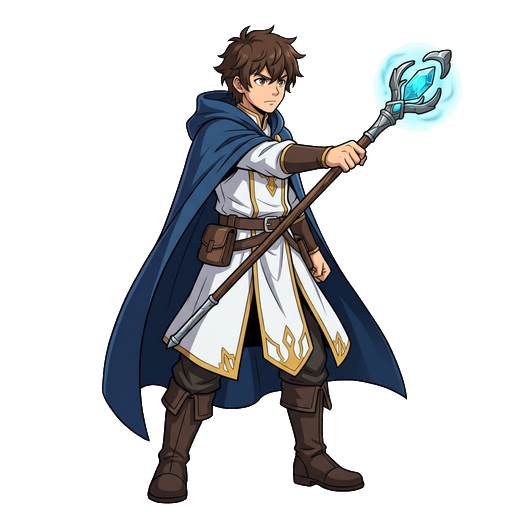
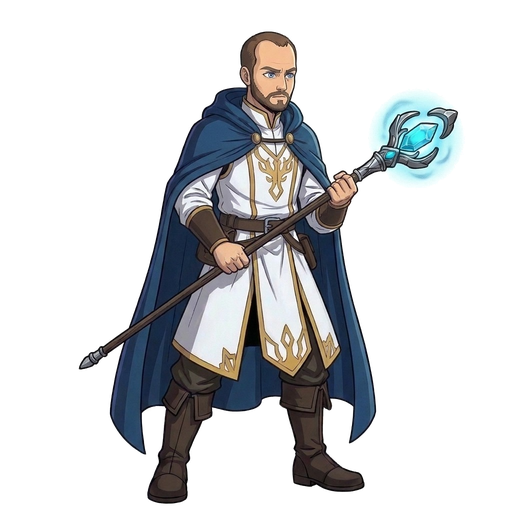
feat(arena): update cleric idle sprite and wire cleric hit recoil pose

Changed region(s): [[0.1562, 0.0312, 0.9062, 0.9062]]

diff --git a/VSCode/test/robot_mage_assets_and_arena_test.dart b/VSCode/test/robot_mage_assets_and_arena_test.dart
@@ -119,6 +119,7 @@ void main() {
 
       const expectedSprites = [
         'assets/images/player/cleric_idle.png',
+        'assets/images/player/cleric_hit.png',
         'assets/images/enemies/guardian_robot_idle.png',
         'assets/images/enemies/guardian_robot_hit.png',
         'assets/images/enemies/robot_archmage_idle.png',
@@ -260,7 +261,7 @@ void main() {
       expect(find.byKey(const ValueKey('user_mana_bar')), findsOneWidget);
       expect(find.text('GUARDIAN ROBOT'), findsOneWidget);
 
-      // PC wins round 1 -> guardian_robot_idle.png stays active (no attack sprite swap)
+      // PC wins round 1 -> guardian_robot_idle.png stays active; Cleric stays on idle until 550ms impact, then swaps to cleric_hit.png for ~450ms
       await pumpArena(
         roundId: 1,
         winner: RoundWinner.computer,
@@ -273,15 +274,33 @@ void main() {
         find.byKey(const ValueKey('assets/images/enemies/guardian_robot_idle.png')),
         findsOneWidget,
       );
+      expect(
+        find.byKey(const ValueKey('assets/images/player/cleric_idle.png')),
+        findsOneWidget,
+      );
 
-      await tester.pump(const Duration(milliseconds: 350)); // 470ms total (>450ms)
+      await tester.pump(const Duration(milliseconds: 350)); // 470ms total (<550ms impact)
       expect(
         find.byKey(const ValueKey('assets/images/enemies/guardian_robot_idle.png')),
         findsOneWidget,
       );
+      expect(
+        find.byKey(const ValueKey('assets/images/player/cleric_idle.png')),
+        findsOneWidget,
+      );
 
-      // Finish remaining VFX duration
-      await tester.pump(const Duration(milliseconds: 350));
+      await tester.pump(const Duration(milliseconds: 90)); // 560ms total -> impact fired!
+      expect(
+        find.byKey(const ValueKey('assets/images/player/cleric_hit.png')),
+        findsOneWidget,
+      );
+
+      // Finish remaining hit animation (>450ms after impact) -> reverts back to cleric_idle.png
+      await tester.pump(const Duration(milliseconds: 460));
+      expect(
+        find.byKey(const ValueKey('assets/images/player/cleric_idle.png')),
+        findsOneWidget,
+      );
 
       // Player deals damage round 2 -> idle during launch/clash, swaps to guardian_robot_hit.png at 550ms impact for ~450ms
       await pumpArena(
@@ -296,10 +315,18 @@ void main() {
         find.byKey(const ValueKey('assets/images/enemies/guardian_robot_idle.png')),
         findsOneWidget,
       );
+      expect(
+        find.byKey(const ValueKey('assets/images/player/cleric_idle.png')),
+        findsOneWidget,
+      );
 
       await tester.pump(const Duration(milliseconds: 360)); // 560ms total -> impact fired!
       expect(
         find.byKey(const ValueKey('assets/images/enemies/guardian_robot_hit.png')),
+        findsOneWidget,
+      );
+      expect(
+        find.byKey(const ValueKey('assets/images/player/cleric_idle.png')),
         findsOneWidget,
       );
 
@@ -310,6 +337,150 @@ void main() {
         findsOneWidget,
       );
     });
+
+    testWidgets(
+      'Player Cleric renders cleric_idle.png by default with gaplessPlayback & bottomCenter grounding, swaps to cleric_hit.png synchronized with HP drop & damage indicator, and reverts cleanly',
+      (WidgetTester tester) async {
+        final localization = LocalizationService();
+        await localization.load();
+
+        Future<void> pumpClericArena({
+          required int roundId,
+          RoundWinner? winner,
+          HandMove? userMove,
+          HandMove? computerMove,
+          int userHp = 50,
+          bool elementalMode = true,
+          bool compactHeight = false,
+          DualSpellMatchupResult? dualSpellResult,
+        }) {
+          return tester.pumpWidget(
+            MaterialApp(
+              theme: ThemeData.dark(),
+              home: Scaffold(
+                body: SizedBox(
+                  width: 390,
+                  child: VersusArena(
+                    userMove: userMove,
+                    computerMove: computerMove,
+                    dualSpellResult: dualSpellResult,
+                    winner: winner,
+                    localization: localization,
+                    animationsEnabled: true,
+                    roundId: roundId,
+                    userHp: userHp,
+                    playerMaxHp: 50,
+                    userDamageAmount: 1,
+                    elementalMode: elementalMode,
+                    compactHeight: compactHeight,
+                  ),
+                ),
+              ),
+            ),
+          );
+        }
+
+        final idleFinder = find.byKey(
+          const ValueKey('assets/images/player/cleric_idle.png'),
+        );
+        final hitFinder = find.byKey(
+          const ValueKey('assets/images/player/cleric_hit.png'),
+        );
+        final spriteBoxFinder = find.byKey(
+          const ValueKey('versus_player_sprite'),
+        );
+        final userHpBarFinder = find.byKey(const ValueKey('user_hp_bar'));
+
+        // 1. Default idle state & floor grounding check (standard + compactHeight)
+        for (final compact in [false, true]) {
+          await pumpClericArena(roundId: 0, compactHeight: compact);
+          await tester.pump();
+
+          expect(idleFinder, findsOneWidget);
+          expect(hitFinder, findsNothing);
+
+          final idleImage = tester.widget<Image>(idleFinder);
+          expect(idleImage.gaplessPlayback, isTrue);
+          expect(idleImage.alignment, Alignment.bottomCenter);
+
+          final spriteRect = tester.getRect(spriteBoxFinder);
+          final hpRect = tester.getRect(userHpBarFinder);
+          expect(
+            spriteRect.bottom,
+            lessThanOrEqualTo(hpRect.top + 0.5),
+            reason: 'Cleric sprite should stay grounded above HP bar (compact=$compact)',
+          );
+        }
+
+        // 2. Elemental mode impact: HP deduction, damage indicator, and cleric_hit.png fire together at 550ms
+        await pumpClericArena(roundId: 0);
+        await tester.pump();
+        final initialSpriteRect = tester.getRect(spriteBoxFinder);
+
+        await pumpClericArena(
+          roundId: 1,
+          winner: RoundWinner.computer,
+          userMove: HandMove.fire,
+          computerMove: HandMove.water,
+          userHp: 49,
+        );
+        await tester.pump();
+
+        // Before Phase 3 impact (300ms clash): still idle, HP bar still at 50 / 50
+        await tester.pump(const Duration(milliseconds: 300));
+        expect(idleFinder, findsOneWidget);
+        expect(hitFinder, findsNothing);
+        expect(
+          find.descendant(of: userHpBarFinder, matching: find.text('50 / 50')),
+          findsOneWidget,
+        );
+        expect(find.byKey(const ValueKey('user_damage_indicator')), findsNothing);
+
+        // At 560ms (Phase 3 impact): cleric_hit.png active, HP bar drops to 49 / 50, damage indicator shown
+        await tester.pump(const Duration(milliseconds: 260));
+        expect(idleFinder, findsNothing);
+        expect(hitFinder, findsOneWidget);
+        final hitImage = tester.widget<Image>(hitFinder);
+        expect(hitImage.gaplessPlayback, isTrue);
+        expect(hitImage.alignment, Alignment.bottomCenter);
+        expect(
+          find.descendant(of: userHpBarFinder, matching: find.text('49 / 50')),
+          findsOneWidget,
+        );
+        expect(find.byKey(const ValueKey('user_damage_indicator')), findsOneWidget);
+
+        // Bounds remain identical (zero vertical jumping during swap)
+        expect(tester.getRect(spriteBoxFinder), equals(initialSpriteRect));
+
+        // After 460ms (hit animation completes): reverts smoothly to cleric_idle.png
+        await tester.pump(const Duration(milliseconds: 460));
+        expect(idleFinder, findsOneWidget);
+        expect(hitFinder, findsNothing);
+
+        // 3. Classic mode impact: swaps to cleric_hit.png at 500ms impact and returns to cleric_idle.png
+        await pumpClericArena(
+          roundId: 2,
+          winner: RoundWinner.computer,
+          userMove: HandMove.rock,
+          computerMove: HandMove.paper,
+          userHp: 48,
+          elementalMode: false,
+        );
+        await tester.pump();
+        await tester.pump(const Duration(milliseconds: 400));
+        expect(idleFinder, findsOneWidget);
+        expect(hitFinder, findsNothing);
+
+        await tester.pump(const Duration(milliseconds: 110)); // 510ms -> classic impact!
+        expect(hitFinder, findsOneWidget);
+        expect(idleFinder, findsNothing);
+
+        await tester.pump(const Duration(milliseconds: 460));
+        expect(idleFinder, findsOneWidget);
+        expect(hitFinder, findsNothing);
+        expect(tester.takeException(), isNull);
+      },
+    );
 
     testWidgets('Stages 2, 3, and 4 render Robot Archmage, Metal Wizard, and Baby Mage Robot sprites cleanly with attack/hit motions', (WidgetTester tester) async {
       final localization = LocalizationService();

diff --git a/VSCode/lib/views/widgets/versus_arena.dart b/VSCode/lib/views/widgets/versus_arena.dart
@@ -124,6 +124,12 @@ class _VersusArenaState extends State<VersusArena>
   bool _activeUserDamage = false;
   bool _activePcDamage = false;
   int? _precachedBossStage;
+  bool _precachedPlayerSprites = false;
+
+  static const List<String> _playerActionSprites = [
+    'assets/images/player/cleric_idle.png',
+    'assets/images/player/cleric_hit.png',
+  ];
 
   static List<String> _actionSpritesForStage(int enemyStage) {
     switch (enemyStage) {
@@ -155,6 +161,14 @@ class _VersusArenaState extends State<VersusArena>
     }
   }
 
+  void _precachePlayerSprites() {
+    for (final assetPath in _playerActionSprites) {
+      unawaited(
+        precacheImage(AssetImage(assetPath), context).catchError((_) {}),
+      );
+    }
+  }
+
   void _precacheBossSprites(int stage) {
     for (final assetPath in _actionSpritesForStage(stage)) {
       unawaited(
@@ -166,6 +180,10 @@ class _VersusArenaState extends State<VersusArena>
   @override
   void didChangeDependencies() {
     super.didChangeDependencies();
+    if (!_precachedPlayerSprites) {
+      _precachedPlayerSprites = true;
+      _precachePlayerSprites();
+    }
     if (_precachedBossStage != widget.enemyStage) {
       _precachedBossStage = widget.enemyStage;
       _precacheBossSprites(widget.enemyStage);
@@ -825,7 +843,7 @@ class _VersusArenaState extends State<VersusArena>
               const vsWidth = 48.0;
               const totalItemsWidth = cardWidth * 2 + vsWidth;
               const spriteWidth = 112.0;
-              const spriteHeight = 112.0;
+              final spriteHeight = widget.compactHeight ? 102.0 : 108.0;
               final arenaStackHeight = widget.compactHeight ? 132.0 : 140.0;
               final rowWidth = constraints.maxWidth;
               final maxCardLeft = math.max(0.0, rowWidth - cardWidth);
@@ -845,7 +863,7 @@ class _VersusArenaState extends State<VersusArena>
               final centerX = rowWidth / 2.0;
               final orbCenterY = arenaStackHeight - 81.0;
               final floorRunesCenterY = widget.compactHeight ? 90.0 : 96.0;
-              final spriteTop = widget.compactHeight ? -4.0 : 0.0;
+              final spriteTop = widget.compactHeight ? -6.0 : -4.0;
 
               final playerLeft = (leftCenterX - spriteWidth / 2.0)
                   .clamp(0.0, math.max(0.0, rowWidth - spriteWidth))
@@ -1457,8 +1475,9 @@ class SanctuaryRunesFloorPainter extends CustomPainter {
   }
 }
 
-/// Full-body Player Cleric sprite (`assets/images/player/cleric_idle.png`) with
-/// subtle breathing bob, forward cast lunge/glow pulse, and hit shake/flash.
+/// Full-body Player Cleric sprite (`assets/images/player/cleric_idle.png` and
+/// `assets/images/player/cleric_hit.png`) with subtle breathing bob, forward
+/// cast lunge/glow pulse, bottom-center floor grounding, and hit recoil/shake.
 class _PlayerArenaSprite extends StatelessWidget {
   final _BossActionType actionType;
   final double idleProgress;
@@ -1475,7 +1494,9 @@ class _PlayerArenaSprite extends StatelessWidget {
 
   @override
   Widget build(BuildContext context) {
-    const assetPath = 'assets/images/player/cleric_idle.png';
+    final assetPath = actionType == _BossActionType.hit
+        ? 'assets/images/player/cleric_hit.png'
+        : 'assets/images/player/cleric_idle.png';
     final floatDy =
         animationsEnabled ? -math.sin(idleProgress * math.pi) * 2.2 : 0.0;
     double scale = animationsEnabled ? (1.0 + 0.022 * idleProgress) : 1.0;
@@ -1521,11 +1542,13 @@ class _PlayerArenaSprite extends StatelessWidget {
           offset: Offset(dx, dy),
           child: Transform.scale(
             scale: scale,
+            alignment: Alignment.bottomCenter,
             child: Image.asset(
               assetPath,
-              key: const ValueKey<String>(assetPath),
+              key: ValueKey<String>(assetPath),
               gaplessPlayback: true,
               fit: BoxFit.contain,
+              alignment: Alignment.bottomCenter,
               filterQuality: FilterQuality.high,
               errorBuilder: (context, error, stackTrace) => const Icon(
                 Icons.person_rounded,

diff --git a/VSCode/lib/views/screens/game_screen.dart b/VSCode/lib/views/screens/game_screen.dart
@@ -80,6 +80,7 @@ class _GameScreenState extends State<GameScreen>
   bool _isTempleSiegeInvasionDialogOpen = false;
   bool _isBossVictoryDialogOpen = false;
   bool _metricsRebuildScheduled = false;
+  bool _didPrecachePlayerSprites = false;
   Timer? _deathDialogTimer;
   GameController? _controller;
 
@@ -167,9 +168,24 @@ class _GameScreenState extends State<GameScreen>
     }
   }
 
+  void _precachePlayerSprites() {
+    for (final assetPath in const [
+      'assets/images/player/cleric_idle.png',
+      'assets/images/player/cleric_hit.png',
+    ]) {
+      unawaited(
+        precacheImage(AssetImage(assetPath), context).catchError((_) {}),
+      );
+    }
+  }
+
   @override
   void didChangeDependencies() {
     super.didChangeDependencies();
+    if (!_didPrecachePlayerSprites) {
+      _didPrecachePlayerSprites = true;
+      _precachePlayerSprites();
+    }
     final nextController = context.read<GameController>();
     if (_controller != nextController) {
       _controller = nextController;
